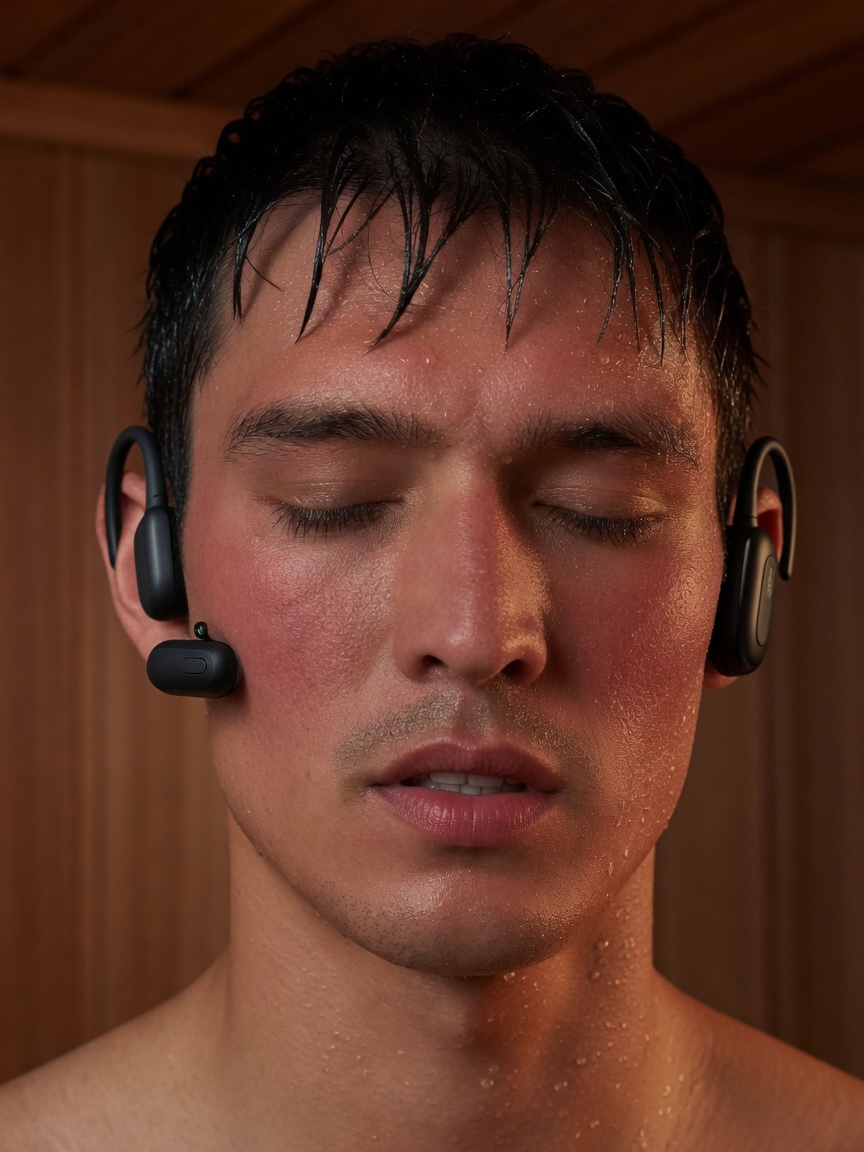
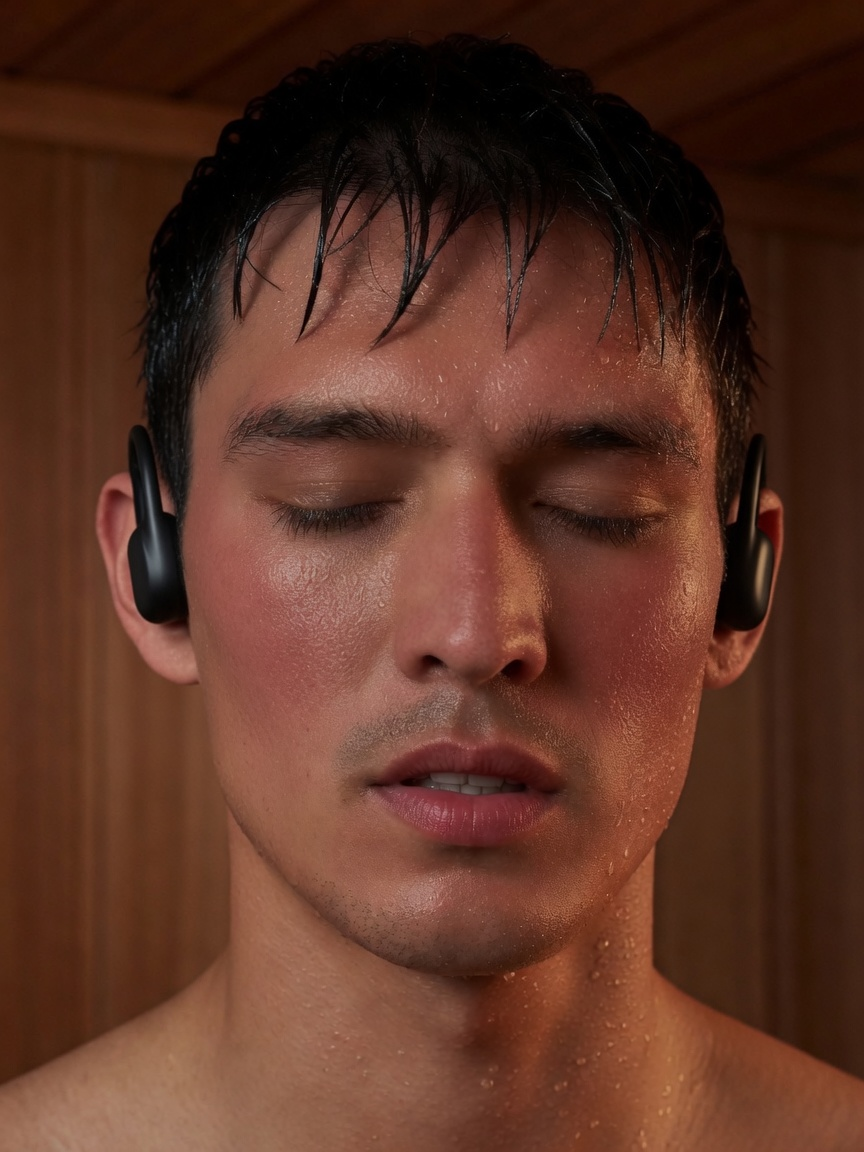
Clear cheek pieces and match the 3D to the product.
Remove the plastic pads from the sauna and steam faces, and rebuild the rotating headset to the attached Shokz-style form.

Changed region(s): [[0.0938, 0.375, 0.3125, 0.6562], [0.75, 0.375, 0.9375, 0.5938], [0.3125, 0.4688, 0.4688, 0.5625]]

diff --git a/index3.html b/index3.html
@@ -1133,76 +1133,64 @@ const inner = new THREE.Group();
 root.add(inner);
 scene.add(root);
 
-function housingGeometry(){
-  const s = new THREE.Shape();
-  s.moveTo(-0.178, 0.070);
-  s.quadraticCurveTo(-0.180, 0.132, -0.124, 0.130);
-  s.lineTo( 0.072, 0.104);
-  s.quadraticCurveTo( 0.158, 0.096,  0.161, 0.020);
-  s.quadraticCurveTo( 0.164,-0.068,  0.086,-0.116);
-  s.lineTo(-0.070,-0.158);
-  s.quadraticCurveTo(-0.168,-0.182, -0.180,-0.082);
-  s.closePath();
-
-  const g = new THREE.ExtrudeGeometry(s, {
-    depth:0.082, bevelEnabled:true,
-    bevelThickness:0.024, bevelSize:0.024, bevelSegments:5,
-    curveSegments:14, steps:1
-  });
-  g.translate(0, 0, -0.041);
-  g.rotateY(-Math.PI/2);
-  return g;
-}
-const HOUSING_HALF = 0.041 + 0.024;
-const HOUSING_Z    = 0.140;
+const X = 0.62;
+const bandCurve = new THREE.CatmullRomCurve3([
+  new THREE.Vector3(-X, 0.13, 0.00),
+  new THREE.Vector3(-0.60, 0.16, -0.30),
+  new THREE.Vector3(-0.40, 0.07, -0.62),
+  new THREE.Vector3( 0.00, 0.01, -0.74),
+  new THREE.Vector3( 0.40, 0.07, -0.62),
+  new THREE.Vector3( 0.60, 0.16, -0.30),
+  new THREE.Vector3( X, 0.13, 0.00),
+], false, 'catmullrom', 0.42);
+inner.add(new THREE.Mesh(new THREE.TubeGeometry(bandCurve, 120, 0.026, 14, false), bandMat));
 
 for (const side of [-1, 1]) {
-  const h = new THREE.Mesh(housingGeometry(), bodyMat);
-  h.position.set(side * 0.605, 0.045, HOUSING_Z);
-  inner.add(h);
+  const housing = new THREE.Mesh(new THREE.CapsuleGeometry(0.052, 0.20, 8, 18), bodyMat);
+  housing.rotation.x = Math.PI / 2;
+  housing.scale.set(0.82, 1.05, 1.22);
+  housing.position.set(side * X, 0.11, 0.05);
+  inner.add(housing);
 }
 
 function hookGeometry(){
   const c = new THREE.CatmullRomCurve3([
-    new THREE.Vector3(0,  0.135, 0.190),
-    new THREE.Vector3(0,  0.290, 0.420),
-    new THREE.Vector3(0,  0.310, 0.600),
-    new THREE.Vector3(0,  0.180, 0.700),
-    new THREE.Vector3(0,  0.000, 0.680),
-    new THREE.Vector3(0, -0.150, 0.560),
-  ], false, 'catmullrom', 0.5);
-  const g = new THREE.TubeGeometry(c, 72, 0.046, 12, false);
-  g.scale(0.66, 1, 1);
+    new THREE.Vector3(0,  0.12, 0.14),
+    new THREE.Vector3(0,  0.24, 0.30),
+    new THREE.Vector3(0,  0.22, 0.46),
+    new THREE.Vector3(0,  0.04, 0.52),
+    new THREE.Vector3(0, -0.10, 0.46),
+  ], false, 'catmullrom', 0.4);
+  const g = new THREE.TubeGeometry(c, 80, 0.028, 12, false);
+  g.scale(0.72, 1, 1);
   return g;
 }
 for (const side of [-1, 1]) {
   const hk = new THREE.Mesh(hookGeometry(), bodyMat);
-  hk.position.x = side * 0.600;
+  hk.position.x = side * X;
   inner.add(hk);
 }
 
 for (const side of [-1, 1]) {
-  const pod = new THREE.Mesh(new THREE.SphereGeometry(1, 26, 18), padMat);
-  pod.scale.set(0.038, 0.072, 0.058);
-  pod.position.set(side * 0.548, 0.055, 0.355);
-  pod.rotation.z = side * 0.08;
-  pod.rotation.x = -0.08;
-  inner.add(pod);
+  const pad = new THREE.Mesh(new THREE.CapsuleGeometry(0.048, 0.036, 6, 16), padMat);
+  pad.scale.set(0.78, 1.18, 0.88);
+  pad.position.set(side * X, -0.155, 0.45);
+  inner.add(pad);
 }
 
 {
-  const plate = new THREE.Mesh(new THREE.CapsuleGeometry(0.030, 0.110, 4, 12), btnMat);
-  plate.rotation.z = Math.PI/2;
-  plate.rotation.y = Math.PI/2;
-  plate.scale.set(1, 1, 0.45);
-  plate.position.set(-0.605 - HOUSING_HALF + 0.010, -0.008, HOUSING_Z - 0.02);
+  const plate = new THREE.Mesh(new THREE.CapsuleGeometry(0.026, 0.10, 4, 12), btnMat);
+  plate.rotation.z = Math.PI / 2;
+  plate.rotation.y = Math.PI / 2;
+  plate.scale.set(1, 1, 0.42);
+  plate.position.set(-X - 0.048, 0.10, 0.04);
   inner.add(plate);
 
-  const bGeo = new THREE.CylinderGeometry(0.013, 0.013, 0.02, 12);
+  const bGeo = new THREE.CylinderGeometry(0.012, 0.012, 0.018, 12);
   for (let i = -1; i <= 1; i++) {
     const b = new THREE.Mesh(bGeo, padMat);
-    b.rotation.z = Math.PI/2;
-    b.position.set(-0.605 - HOUSING_HALF - 0.004, -0.008, HOUSING_Z - 0.02 + i * 0.052);
+    b.rotation.z = Math.PI / 2;
+    b.position.set(-X - 0.056, 0.10, 0.04 + i * 0.046);
     inner.add(b);
   }
 }
@@ -1227,9 +1215,9 @@ const markMat = new THREE.MeshBasicMaterial({
   map:markTex, transparent:true, opacity:0.62, depthWrite:false,
   color:0xC9CCCF
 });
-const markMesh = new THREE.Mesh(new THREE.PlaneGeometry(0.185, 0.046), markMat);
-markMesh.rotation.y = Math.PI/2;
-markMesh.position.set(0.605 + HOUSING_HALF + 0.004, 0.048, HOUSING_Z - 0.025);
+const markMesh = new THREE.Mesh(new THREE.PlaneGeometry(0.16, 0.04), markMat);
+markMesh.rotation.y = Math.PI / 2;
+markMesh.position.set(X + 0.052, 0.12, 0.04);
 inner.add(markMesh);
 
 if (document.fonts && document.fonts.ready) {
